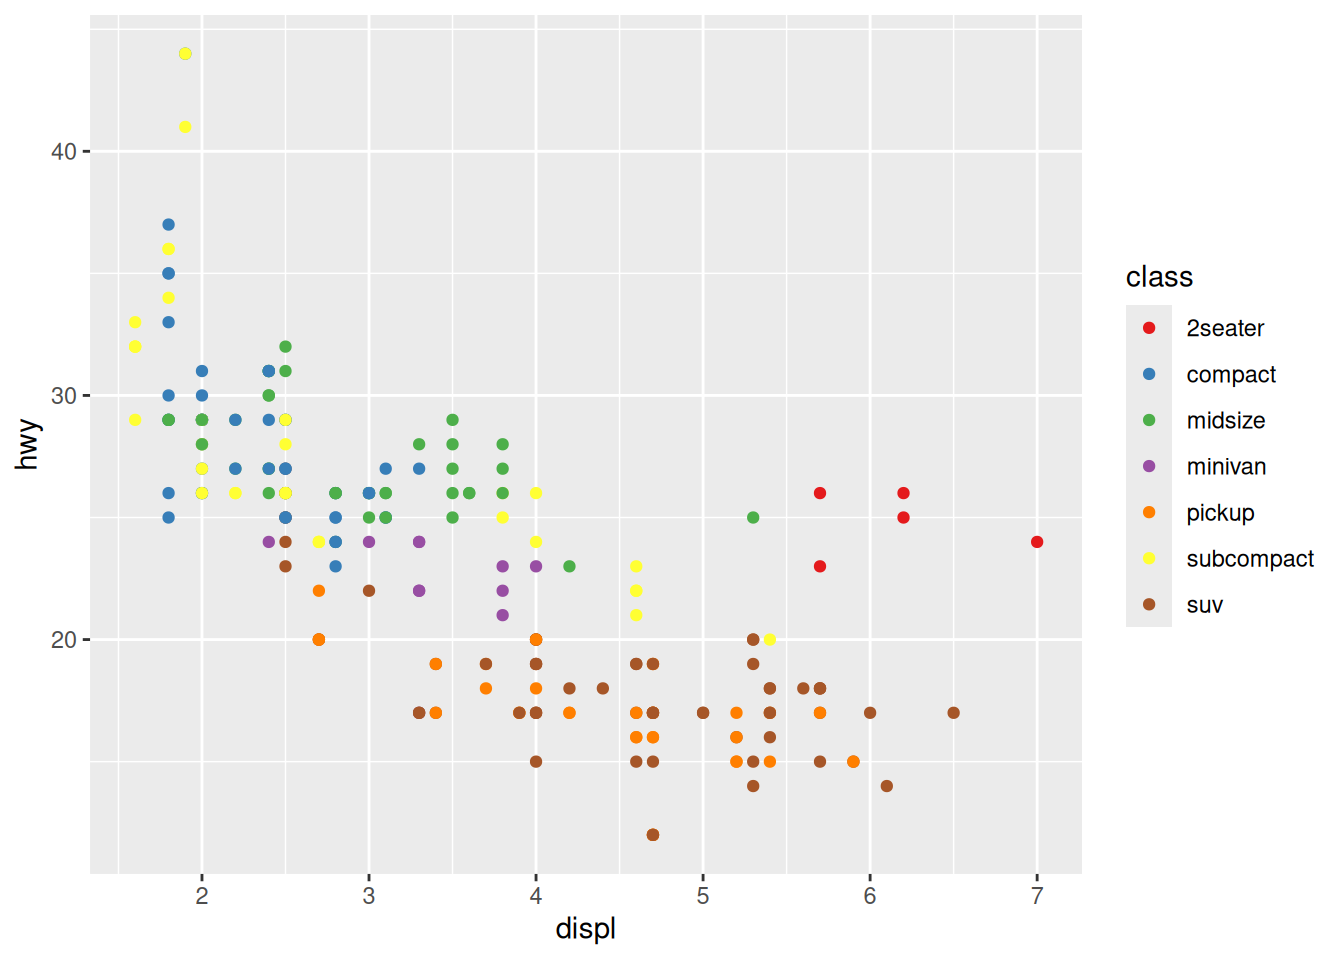
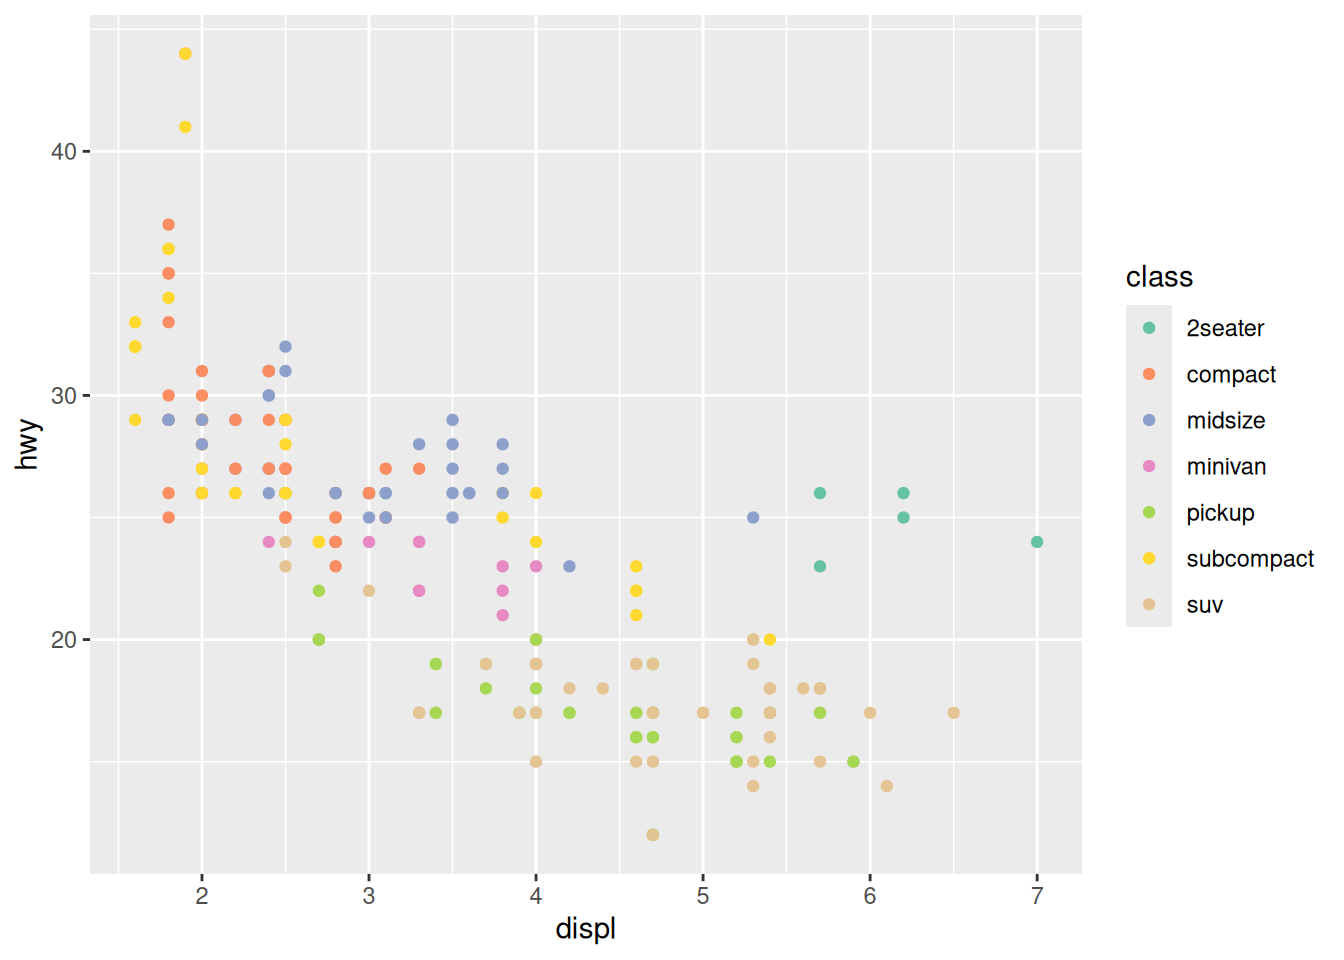
Built site for gh-pages

diff --git a/NAPC2024/materials/4_visualization/practical-ggplot2.html b/NAPC2024/materials/4_visualization/practical-ggplot2.html
@@ -527,7 +527,7 @@ pre > code.sourceCode > span > a:first-child::before { text-decoration: underlin
 <div class="cell">
 <div class="sourceCode cell-code" id="cb7"><pre class="sourceCode r code-with-copy"><code class="sourceCode r"><span id="cb7-1"><a href="#cb7-1" aria-hidden="true" tabindex="-1"></a><span class="fu">ggplot</span>(mpg, <span class="fu">aes</span>(<span class="at">x =</span> displ, <span class="at">y =</span> hwy, <span class="at">color =</span> class)) <span class="sc">+</span> </span>
 <span id="cb7-2"><a href="#cb7-2" aria-hidden="true" tabindex="-1"></a>  <span class="fu">geom_point</span>() <span class="sc">+</span></span>
-<span id="cb7-3"><a href="#cb7-3" aria-hidden="true" tabindex="-1"></a>  <span class="fu">scale_color_brewer</span>(<span class="at">palette =</span> <span class="st">"Set1"</span>)</span></code><button title="Copy to Clipboard" class="code-copy-button"><i class="bi"></i></button></pre></div>
+<span id="cb7-3"><a href="#cb7-3" aria-hidden="true" tabindex="-1"></a>  <span class="fu">scale_color_brewer</span>(<span class="at">palette =</span> <span class="st">"Set2"</span>)</span></code><button title="Copy to Clipboard" class="code-copy-button"><i class="bi"></i></button></pre></div>
 <div class="cell-output-display">
 <div>
 <figure class="figure">
